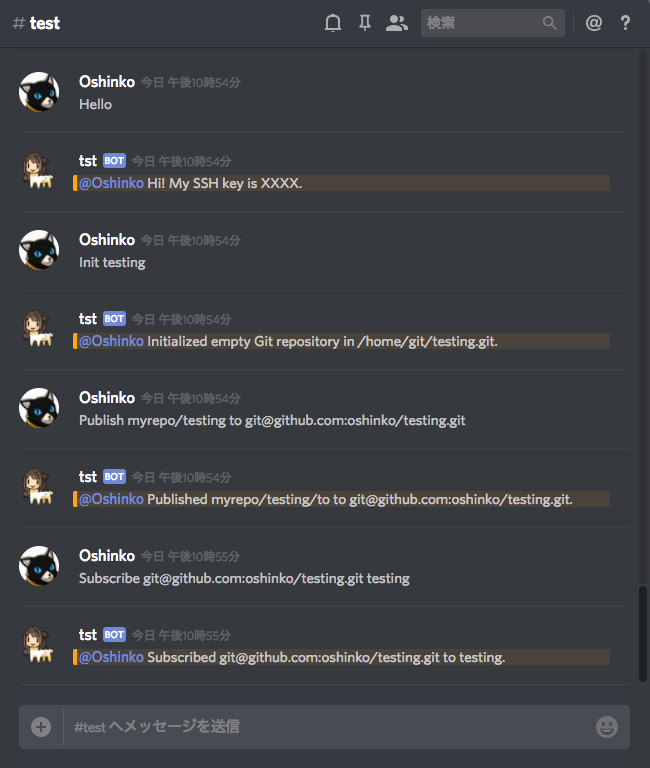
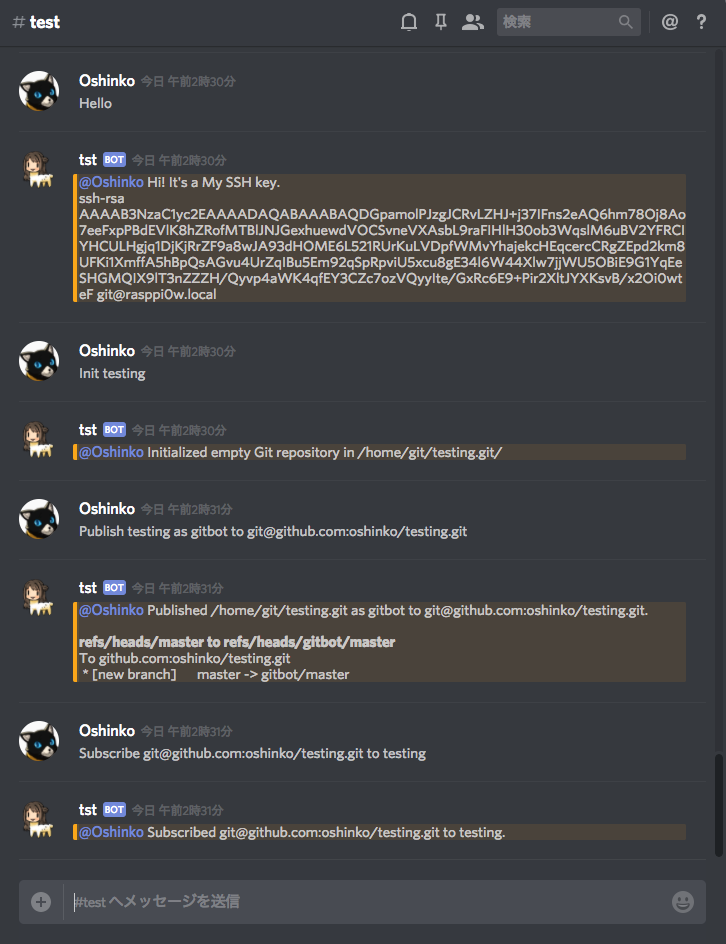
Add command implementation

diff --git a/gitbot/std.py b/gitbot/std.py
@@ -1,3 +1,4 @@
+from asyncio import create_subprocess_exec, subprocess
 from bot import hear, task
 from datetime import time
 from pathlib import Path
@@ -7,27 +8,66 @@ channels = ['#test']
 
 @hear('[Hh]ello', channels=channels, ambient=True)
 async def hello(message):
-    await message.reply(f'Hi! My SSH key is XXXX.')
+    with (Path.home() / '.ssh/id_rsa.pub').open() as f:
+        await message.reply(f"""Hi! It's a My SSH key.
+{f.readline()}""")
+
+
+def repo_path(repo):
+    p = Path.home() / repo
+    if p.suffix != '.git':
+        p = p.with_suffix('.git')
+    return p
 
 
 @hear('[Ii]nit (.+)', channels=channels, ambient=True)
 async def init(message, repo):
-    # mkdir $HOME/repo
-    # cd $HOME/repo
-    # git init --bare
-    r = Path.home().joinpath(repo)
-    await message.reply(f'Initialized empty Git repository in {r}.')
+    c = ['git', 'init', '--bare', str(repo_path(repo))]
+    p = await create_subprocess_exec(*c,
+                                     stdout=subprocess.PIPE,
+                                     stderr=subprocess.PIPE)
+    outs, errs = await p.communicate()
+    await message.reply((outs or errs).decode())
 
 
-@hear('[Pp]ublish (.+)[/ ](.+) (.+)', channels=channels, ambient=True)
-async def publish(message, namespace, local, remote):
-    # cd $HOME/local
-    # # for REF in $LOCAL_REFS:
-    #   git push remote $REF:namespace/$REF
-    await message.reply(f'Published {namespace}/{local} to {remote}.')
+@hear('[Pp]ublish (.+) as (.+) to (.+)', channels=channels, ambient=True)
+async def publish(message, local, name, remote):
+    d = repo_path(local)
+    c = ['git', 'show-ref', '--heads', '--tags']
+    p = await create_subprocess_exec(*c,
+                                     cwd=d,
+                                     stdout=subprocess.PIPE,
+                                     stderr=subprocess.PIPE)
+    outs, errs = await p.communicate()
+    if outs:
+        reply = ''
+        for line in outs.decode().splitlines():
+            h, r = line.split(' ')
+            ref = Path(r)
+            prefix = ref.parts[:2]
+            suffix = ref.parts[2:]
+            remote_ref = Path(*prefix + (name,) + suffix)
+            c = ['git', 'push', remote, f'{r}:{remote_ref}']
+            p = await create_subprocess_exec(*c,
+                                             cwd=d,
+                                             stdout=subprocess.PIPE,
+                                             stderr=subprocess.PIPE)
+            outs, errs = await p.communicate()
+            reply += f"""**{r} to {remote_ref}**
+{(outs or errs).decode().strip()}
+
+"""
+        await message.reply(f"""Published {d.absolute()} as {name} to {remote}.
+
+{reply.strip()}""")
+    elif errs:
+        await message.reply(errs.decode())
+    else:
+        await message.reply(('Publish was canceled because '
+                             'reference was not found in the repository.'))
 
 
-@hear('[Ss]ubscribe (.+) (.+)', channels=channels, ambient=True)
+@hear('[Ss]ubscribe (.+) to (.+)', channels=channels, ambient=True)
 async def subscribe(message, remote, local):
     # REMOTE=`echo -n remote | base64 | sed -e 's/=*$//'`
     # if [ -d $HOME/local ]; then
@@ -45,3 +85,5 @@ async def fetch():
     #   cd repo
     #   git fetch --all
     pass
+    # for ref in Path.home().iterdir():
+    #     pass

diff --git a/README.md b/README.md
@@ -11,8 +11,8 @@ This is a Git agent on the local network, running on Discord and Slack.
 It's a very small package, so you can easily install, update and delete it.
 
 ```bash
-python -m pip install -U -e git+ssh://git@github.com/oshinko/bot.git@next#egg=bot-0.0.0
-python -m pip install -U -e git+ssh://git@github.com/oshinko/gitbot.git@draft#egg=gitbot-0.0.0
+python -m pip install -U -e git+https://github.com/oshinko/bot.git@next#egg=bot-0.0.0
+python -m pip install -U -e git+https://github.com/oshinko/gitbot.git@draft#egg=gitbot-0.0.0
 ```
 
 ## Startup
@@ -49,7 +49,7 @@ init <repo>
 リポジトリをリモートリポジトリに転送します。
 
 ```bash
-publish <namespace>/<local-repo> <remote-repo>
+publish <local-repo> as <name> to <remote-repo>
 ```
 
 ### Subscribe
@@ -59,5 +59,77 @@ publish <namespace>/<local-repo> <remote-repo>
 その後、購読という形で定期的に同期 (fetch) されます。
 
 ```bash
-subscribe <remote-repo> <local-repo>
+subscribe <remote-repo> to <local-repo>
+```
+
+## Installing on Raspbian
+
+### Installing Python 3.6
+
+```bash
+sudo apt-get update
+sudo apt-get install build-essential tk-dev libncurses5-dev libncursesw5-dev libreadline6-dev libdb5.3-dev libgdbm-dev libsqlite3-dev libssl-dev libbz2-dev libexpat1-dev liblzma-dev zlib1g-dev
+wget https://www.python.org/ftp/python/3.6.5/Python-3.6.5.tar.xz
+tar xf Python-3.6.5.tar.xz
+cd Python-3.6.5
+./configure
+make
+sudo make altinstall
+```
+
+### Installing Git
+
+```bash
+sudo apt-get install git
+```
+
+### Configuring User
+
+```bash
+sudo useradd -m -s /bin/bash git
+sudo su - git
+```
+
+```bash
+ssh-keygen -f $HOME/.ssh/id_rsa -C git@rasppi0w.local -q -N ""
+```
+
+```bash
+python3.6 -m venv .venv
+.venv/bin/python -m pip install -U -e git+https://github.com/oshinko/bot.git@next#egg=bot-0.0.0
+.venv/bin/python -m pip install -U -e git+https://github.com/oshinko/gitbot.git@draft#egg=gitbot-0.0.0
+```
+
+```bash
+cat <<EOF>> .gitbot
+GIT_SSH_COMMAND="ssh -o StrictHostKeyChecking=no"
+BOT_TOKEN=YOUR_BOT_TOKEN
+EOF
+```
+
+```bash
+logout
+```
+
+### Configuring Systemd
+
+```bash
+sudo wget -O /etc/systemd/system/gitbot.service https://raw.githubusercontent.com/oshinko/gitbot/draft/gitbot.service
+sudo systemctl start gitbot.service
+sudo systemctl status gitbot.service
+sudo systemctl enable gitbot.service
+sudo service gitbot restart
+```
+
+### Cleanup (Optional)
+
+```bash
+sudo rm -r Python-3.6.5
+rm Python-3.6.5.tar.xz
+sudo apt-get --purge remove build-essential tk-dev
+sudo apt-get --purge remove libncurses5-dev libncursesw5-dev libreadline6-dev
+sudo apt-get --purge remove libdb5.3-dev libgdbm-dev libsqlite3-dev libssl-dev
+sudo apt-get --purge remove libbz2-dev libexpat1-dev liblzma-dev zlib1g-dev
+sudo apt-get autoremove
+sudo apt-get clean
 ```
